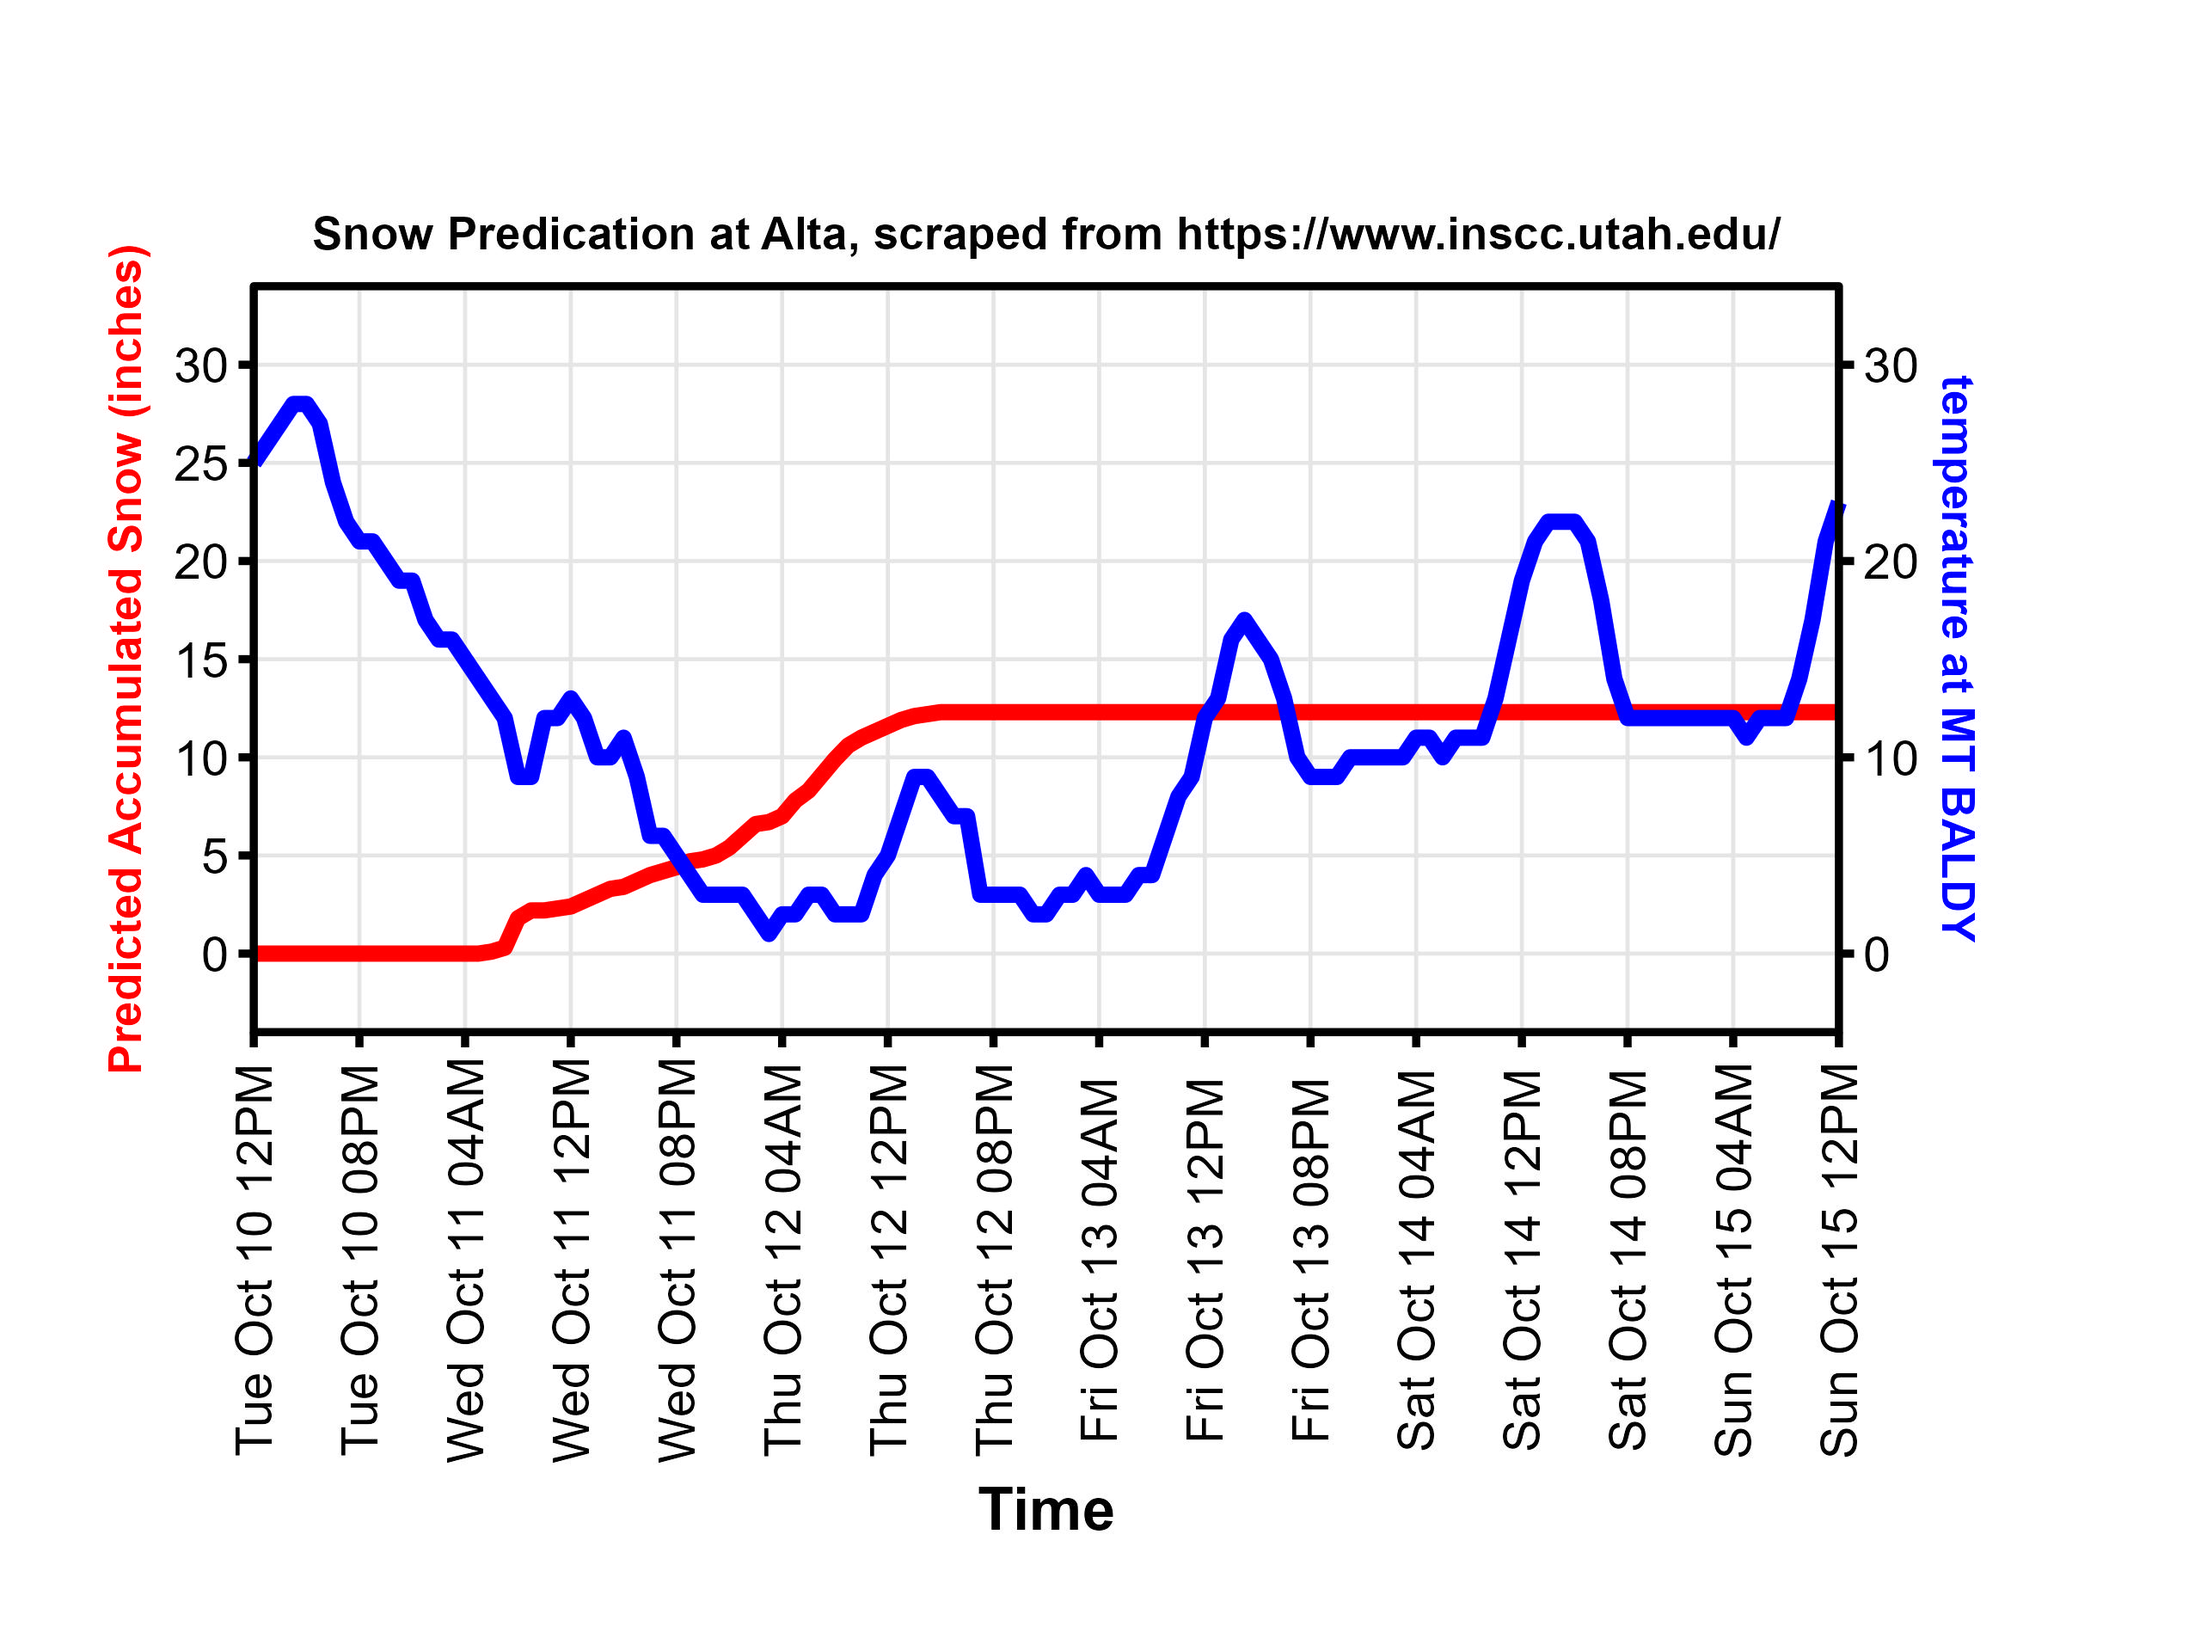
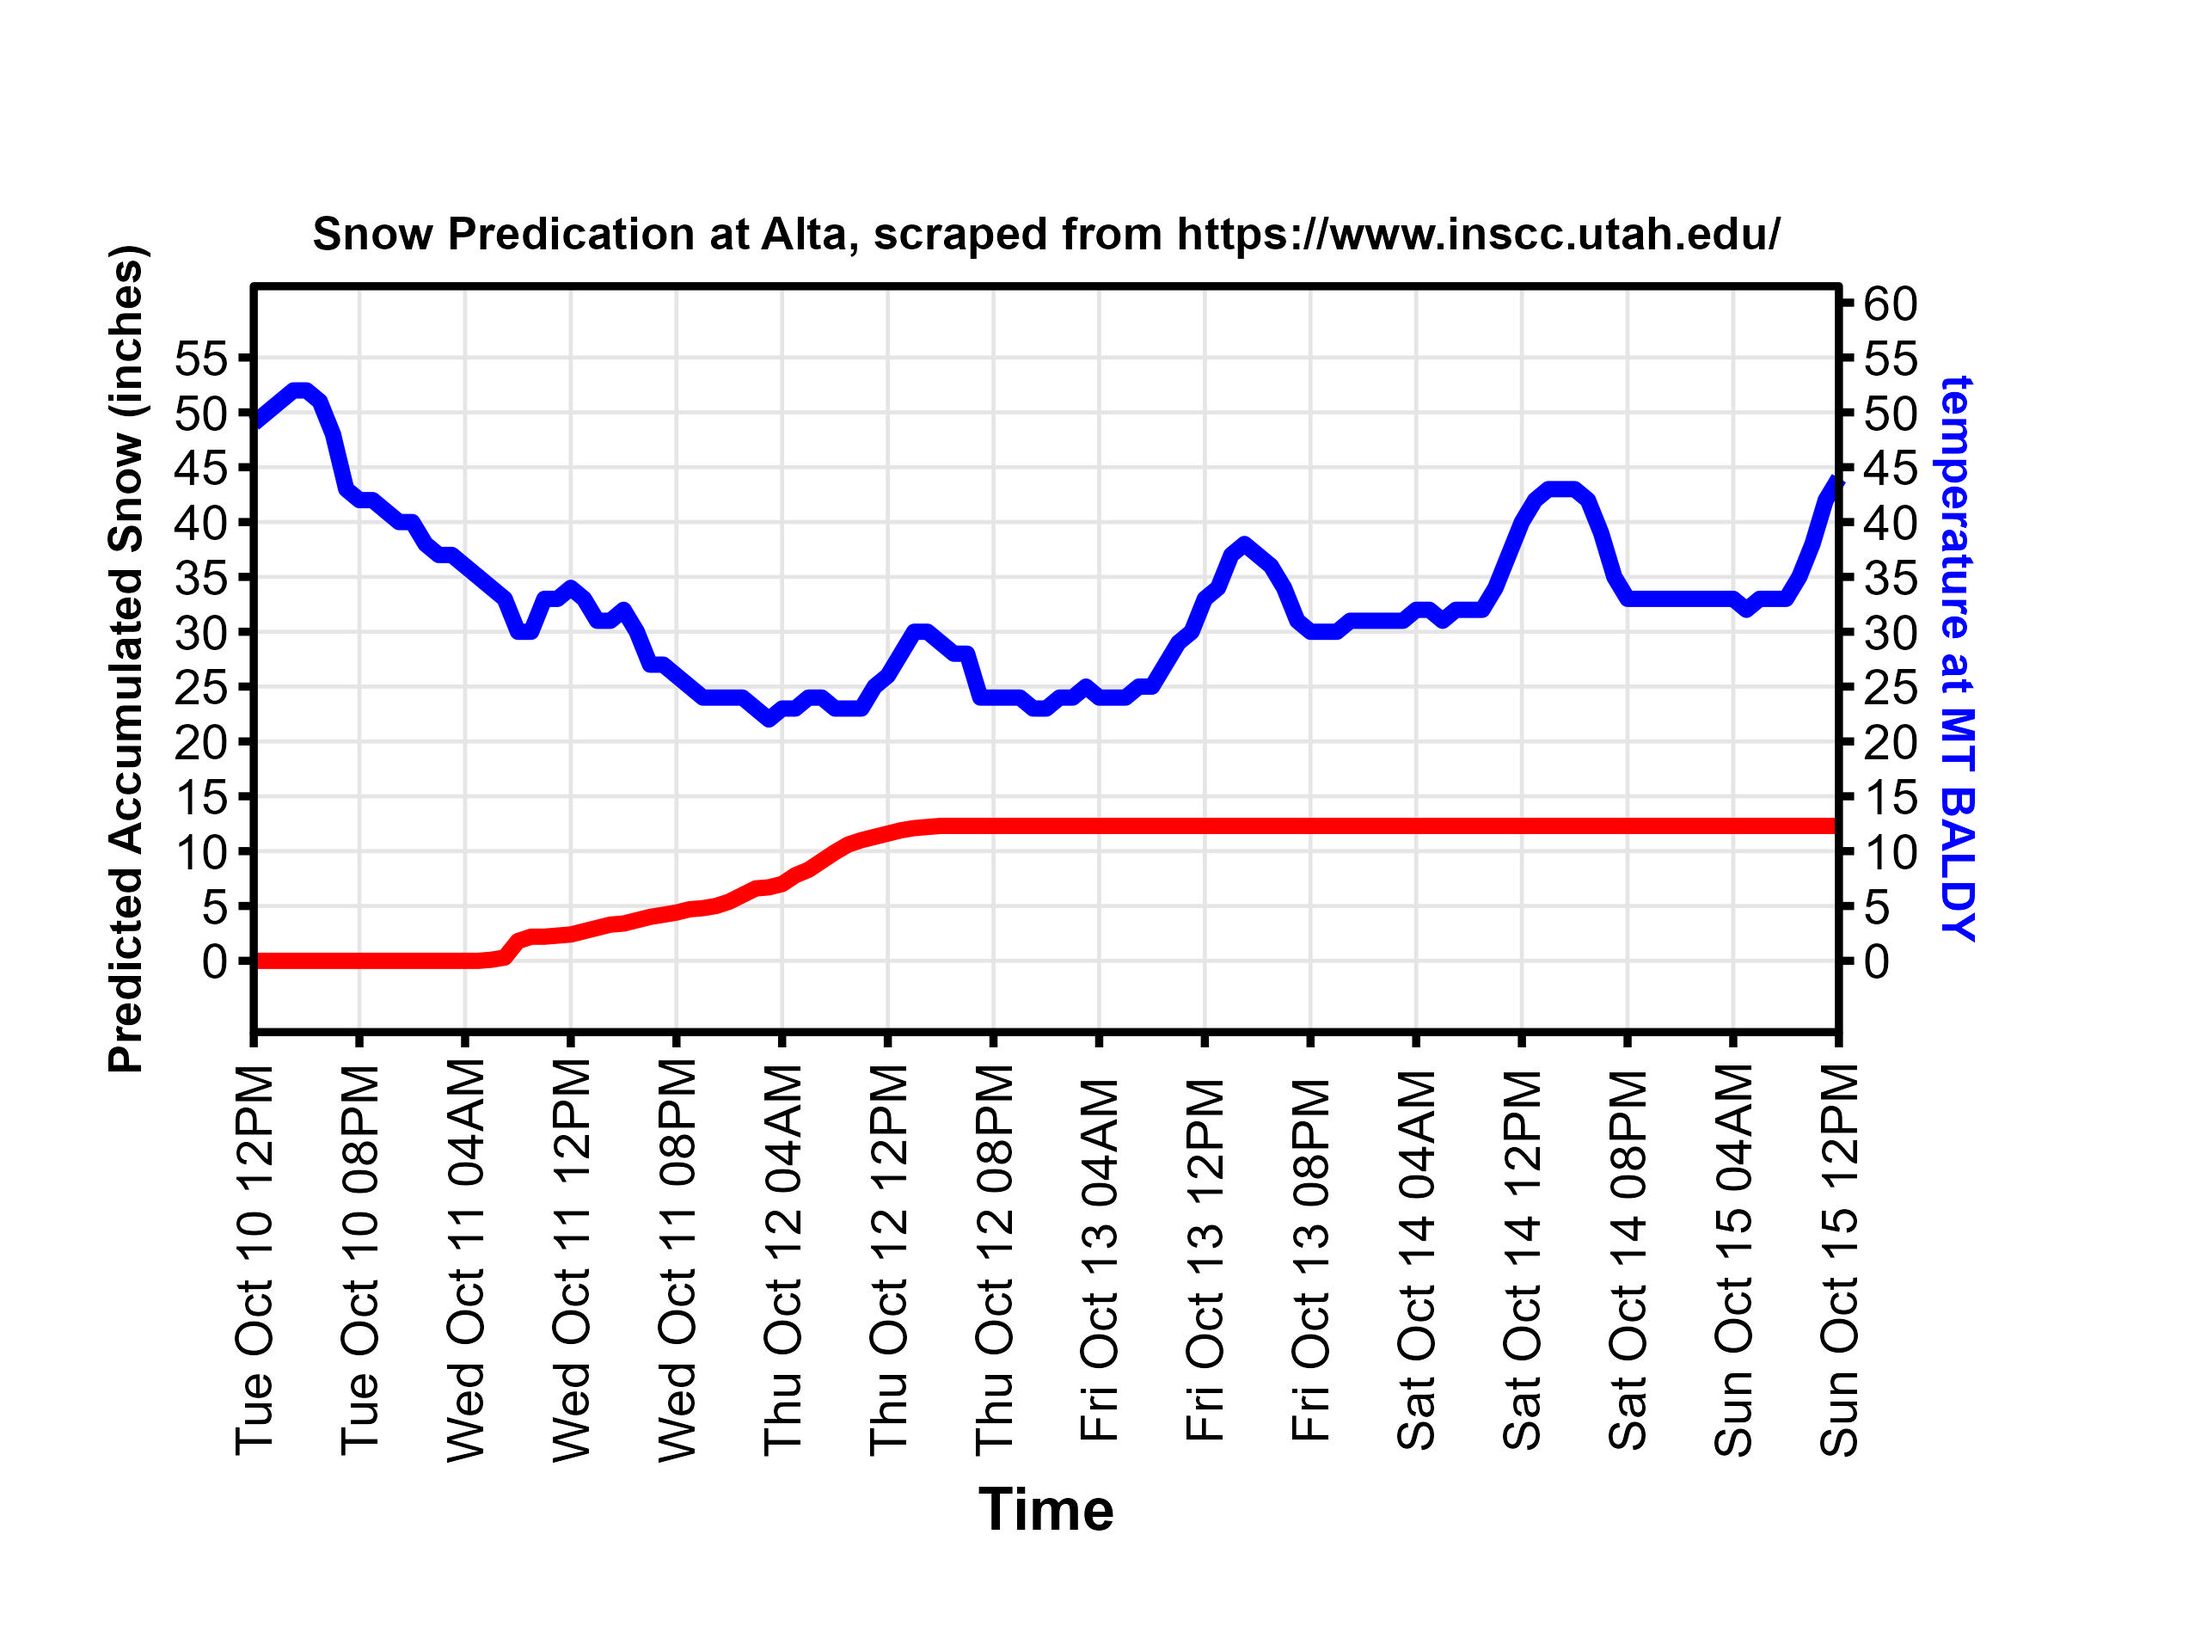
svg

Changed region(s): [[0.0312, 0.1562, 0.875, 0.6562]]

diff --git a/docs/index.html b/docs/index.html
@@ -171,7 +171,7 @@ gtag('config', 'G-XDFMNBGHPJ', { 'anonymize_ip': true});
 </section>
 <section id="snow-prediction-at-alta" class="level2">
 <h2 data-anchor-id="snow-prediction-at-alta">Snow Prediction at Alta</h2>
-<p><img src="snow.JPG" class="img-fluid"></p>
+<p><img src="snow.svg" class="img-fluid"></p>
 </section>
 <section id="most-recent-publication" class="level2">
 <h2 data-anchor-id="most-recent-publication">Most Recent Publication</h2>
